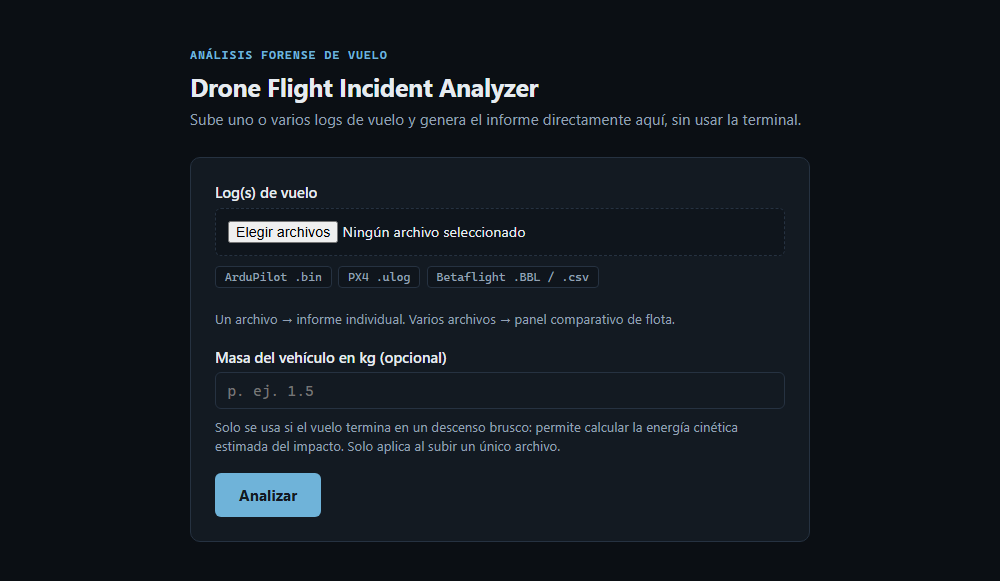
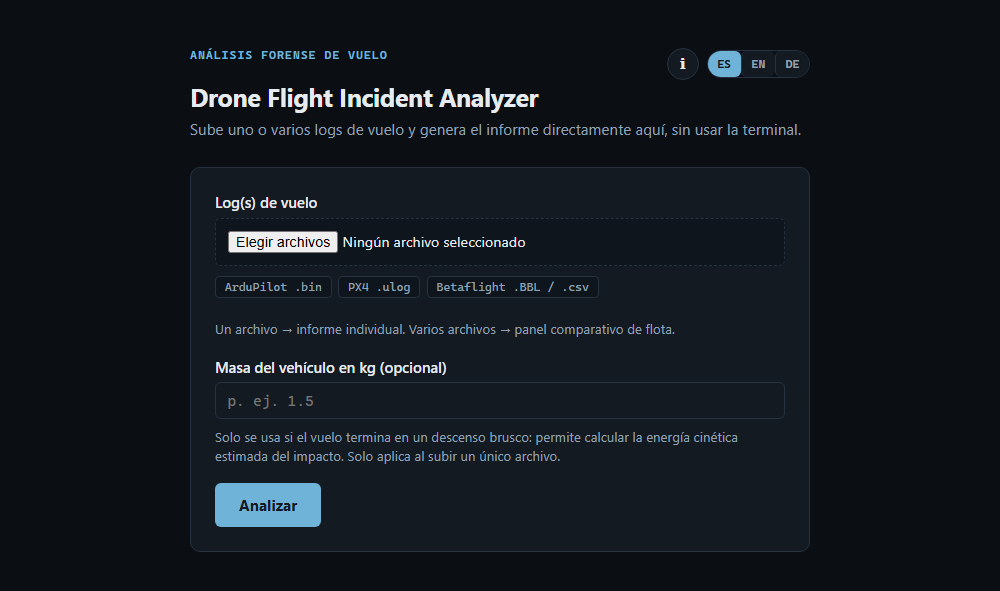
Añade selector de idioma (ES/EN/DE) y ventana de información a la web
- Selector de idioma arriba a la derecha y boton "i" que abre un modal
  explicando que hace la herramienta, en los 3 idiomas.
- Todo del lado del cliente: una unica pagina con las 3 traducciones
  embebidas en JS (objeto `translations`), sin tocar el backend ni
  enrutar idiomas en FastAPI — para una pagina de una sola pantalla es
  mas simple y no requiere recargar. La eleccion se recuerda entre
  visitas via localStorage.
- Modal accesible: cierra con Escape o click fuera, devuelve el foco al
  boton "i" al cerrar, aria-modal + aria-labelledby.
- Probado interactivamente con Playwright (cambio de idioma, apertura del
  modal, cierre, persistencia tras recargar, modo oscuro) antes de
  desinstalarlo — no es una dependencia del proyecto, solo se uso para
  verificar manualmente.
- Nuevo test que confirma que el HTML servido trae el selector, el modal,
  y un fragmento de cada uno de los 3 idiomas.
- Captura de la interfaz web actualizada en el README.

diff --git a/src/web/templates/upload.html b/src/web/templates/upload.html
@@ -21,9 +21,18 @@
   body { margin: 0; padding: 3rem 1.25rem; background: var(--bg); color: var(--ink); font-family: var(--font-sans); display: flex; justify-content: center; }
   main { max-width: 620px; width: 100%; }
 
+  .top-bar { display: flex; align-items: flex-start; justify-content: space-between; gap: 1rem; }
   .eyebrow { font-family: var(--font-mono); font-size: 0.72rem; text-transform: uppercase; letter-spacing: 0.1em; color: var(--accent); font-weight: 700; margin: 0 0 0.5rem 0; }
   h1 { margin: 0 0 0.4rem 0; font-size: 1.55rem; font-weight: 700; letter-spacing: -0.01em; text-wrap: balance; }
   .subtitle { color: var(--muted); margin: 0 0 1.75rem 0; font-size: 0.95rem; }
+
+  .top-controls { display: flex; align-items: center; gap: 0.5rem; flex-shrink: 0; }
+  .icon-btn { background: var(--surface); color: var(--ink); border: 1px solid var(--border); width: 2rem; height: 2rem; border-radius: 999px; padding: 0; font-size: 1rem; font-weight: 700; font-family: var(--font-serif, Georgia, serif); cursor: pointer; display: inline-flex; align-items: center; justify-content: center; line-height: 1; }
+  .icon-btn:hover { border-color: var(--accent); color: var(--accent); }
+  .lang-switch { display: inline-flex; border: 1px solid var(--border); border-radius: 999px; overflow: hidden; }
+  .lang-btn { background: var(--surface); color: var(--muted); border: none; padding: 0.35rem 0.6rem; font-family: var(--font-mono); font-size: 0.72rem; font-weight: 700; cursor: pointer; letter-spacing: 0.02em; }
+  .lang-btn + .lang-btn { border-left: 1px solid var(--border); }
+  .lang-btn[aria-pressed="true"] { background: var(--accent); color: var(--surface); }
 
   section { background: var(--surface); border: 1px solid var(--border); border-radius: 10px; padding: 1.5rem; }
 
@@ -44,40 +53,71 @@
 
   #status { margin-top: 1rem; color: var(--accent); font-size: 0.87rem; display: none; font-family: var(--font-mono); }
 
-  @media (prefers-reduced-motion: no-preference) { button { transition: filter 0.1s ease; } }
+  /* Ventana de informacion */
+  .modal-backdrop { position: fixed; inset: 0; background: rgba(11, 15, 20, 0.6); display: flex; align-items: center; justify-content: center; padding: 1.25rem; z-index: 100; }
+  .modal-backdrop[hidden] { display: none; }
+  .modal { background: var(--surface); border: 1px solid var(--border); border-radius: 10px; max-width: 480px; width: 100%; max-height: 85vh; overflow-y: auto; padding: 1.5rem 1.75rem; position: relative; }
+  .modal h2 { margin: 0 0 1rem 0; font-size: 1.15rem; font-weight: 700; padding-right: 1.5rem; }
+  .modal p { color: var(--ink); font-size: 0.9rem; line-height: 1.55; margin: 0 0 0.9rem 0; }
+  .modal p:last-child { margin-bottom: 0; }
+  .modal code { font-family: var(--font-mono); background: var(--surface-alt); padding: 0.05rem 0.3rem; border-radius: 3px; font-size: 0.85em; }
+  .modal a { color: var(--accent); }
+  .modal-close { position: absolute; top: 1rem; right: 1rem; background: transparent; border: none; color: var(--muted); font-size: 1.3rem; width: 1.75rem; height: 1.75rem; padding: 0; border-radius: 6px; cursor: pointer; line-height: 1; }
+  .modal-close:hover { background: var(--surface-alt); color: var(--ink); }
+
+  @media (prefers-reduced-motion: no-preference) { button, .lang-btn, .icon-btn { transition: filter 0.1s ease, background-color 0.1s ease, color 0.1s ease; } }
 </style>
 </head>
 <body>
 <main>
-  <p class="eyebrow">Análisis forense de vuelo</p>
+  <div class="top-bar">
+    <p class="eyebrow" data-i18n="eyebrow">Análisis forense de vuelo</p>
+    <div class="top-controls">
+      <button type="button" class="icon-btn" id="info-btn" data-i18n-title="info_btn_title" title="Información sobre esta herramienta" aria-haspopup="dialog" aria-controls="info-modal">i</button>
+      <div class="lang-switch" role="group" aria-label="Idioma / Language / Sprache">
+        <button type="button" class="lang-btn" data-lang="es" aria-pressed="true">ES</button>
+        <button type="button" class="lang-btn" data-lang="en" aria-pressed="false">EN</button>
+        <button type="button" class="lang-btn" data-lang="de" aria-pressed="false">DE</button>
+      </div>
+    </div>
+  </div>
+
   <h1>Drone Flight Incident Analyzer</h1>
-  <p class="subtitle">Sube uno o varios logs de vuelo y genera el informe directamente aquí, sin usar la terminal.</p>
+  <p class="subtitle" data-i18n="subtitle">Sube uno o varios logs de vuelo y genera el informe directamente aquí, sin usar la terminal.</p>
 
   <section>
     <form id="analyze-form" action="/analyze" method="post" enctype="multipart/form-data">
-      <label for="files">Log(s) de vuelo</label>
+      <label for="files" data-i18n="files_label">Log(s) de vuelo</label>
       <input type="file" id="files" name="files" multiple required>
       <div class="formats">
         <span>ArduPilot .bin</span>
         <span>PX4 .ulog</span>
         <span>Betaflight .BBL / .csv</span>
       </div>
-      <p class="hint">
+      <p class="hint" data-i18n="hint1">
         Un archivo → informe individual. Varios archivos → panel comparativo de flota.
       </p>
 
-      <label for="mass_kg">Masa del vehículo en kg (opcional)</label>
-      <input type="number" id="mass_kg" name="mass_kg" step="0.1" min="0" placeholder="p. ej. 1.5">
-      <p class="hint">
+      <label for="mass_kg" data-i18n="mass_label">Masa del vehículo en kg (opcional)</label>
+      <input type="number" id="mass_kg" name="mass_kg" step="0.1" min="0" placeholder="p. ej. 1.5" data-i18n-placeholder="mass_placeholder">
+      <p class="hint" data-i18n="hint2">
         Solo se usa si el vuelo termina en un descenso brusco: permite calcular la energía cinética estimada del
         impacto. Solo aplica al subir un único archivo.
       </p>
 
-      <button type="submit" id="submit-btn">Analizar</button>
-      <p id="status">Analizando… puede tardar unos segundos (el modelo de detección de anomalías se entrena en el momento).</p>
+      <button type="submit" id="submit-btn" data-i18n="analyze_btn">Analizar</button>
+      <p id="status" data-i18n="status_msg">Analizando… puede tardar unos segundos (el modelo de detección de anomalías se entrena en el momento).</p>
     </form>
   </section>
 </main>
+
+<div class="modal-backdrop" id="info-modal-backdrop" hidden>
+  <div class="modal" id="info-modal" role="dialog" aria-modal="true" aria-labelledby="info-modal-title">
+    <button type="button" class="modal-close" id="info-close" data-i18n-title="info_close_label" title="Cerrar" aria-label="Cerrar">&times;</button>
+    <h2 id="info-modal-title" data-i18n="info_title">¿Qué es esto?</h2>
+    <div id="info-body" data-i18n-html="info_body"></div>
+  </div>
+</div>
 
 <script>
   // Mejora minima de UX: como el analisis puede tardar unos segundos
@@ -86,6 +126,136 @@
   document.getElementById('analyze-form').addEventListener('submit', function () {
     document.getElementById('submit-btn').disabled = true;
     document.getElementById('status').style.display = 'block';
+  });
+
+  // --- Traducciones -------------------------------------------------
+  // Todo el texto visible de la pagina vive aqui, en un solo objeto, en
+  // vez de servir 3 plantillas HTML distintas desde el backend: para una
+  // pagina de una sola pantalla como esta, cambiar el idioma en el
+  // cliente (sin recargar) es mas simple que añadir enrutado/estado de
+  // idioma en FastAPI, y no requiere tocar el resto del pipeline.
+  var GITHUB_URL = "https://github.com/alberto-navas/drone-flight-incident-analyzer";
+
+  var translations = {
+    es: {
+      eyebrow: "Análisis forense de vuelo",
+      subtitle: "Sube uno o varios logs de vuelo y genera el informe directamente aquí, sin usar la terminal.",
+      files_label: "Log(s) de vuelo",
+      hint1: "Un archivo → informe individual. Varios archivos → panel comparativo de flota.",
+      mass_label: "Masa del vehículo en kg (opcional)",
+      mass_placeholder: "p. ej. 1.5",
+      hint2: "Solo se usa si el vuelo termina en un descenso brusco: permite calcular la energía cinética estimada del impacto. Solo aplica al subir un único archivo.",
+      analyze_btn: "Analizar",
+      status_msg: "Analizando… puede tardar unos segundos (el modelo de detección de anomalías se entrena en el momento).",
+      info_btn_title: "Información sobre esta herramienta",
+      info_close_label: "Cerrar",
+      info_title: "¿Qué es esto?",
+      info_body:
+        "<p><strong>Drone Flight Incident Analyzer</strong> analiza automáticamente los datos que un dron graba durante el vuelo (su «caja negra») y genera un informe: la ruta que siguió, si hubo algún fallo (batería, señal, GPS) y, si el vuelo terminó en una caída, dónde y a qué velocidad probablemente impactó.</p>" +
+        "<p>Combina reglas explicables con un modelo de aprendizaje automático que aprende qué es normal para cada vuelo en concreto, y verifica si el propio archivo muestra indicios de haber sido manipulado.</p>" +
+        "<p><strong>Cómo usarlo:</strong> sube el archivo de log del dron (ArduPilot <code>.bin</code>, PX4 <code>.ulog</code> o Betaflight <code>.BBL</code>/<code>.csv</code>). Un archivo genera un informe individual; varios archivos, un panel comparativo de flota.</p>" +
+        "<p>Proyecto de código abierto — <a href=\"" + GITHUB_URL + "\" target=\"_blank\" rel=\"noopener\">ver en GitHub</a>.</p>",
+    },
+    en: {
+      eyebrow: "Flight forensic analysis",
+      subtitle: "Upload one or more flight logs and generate the report directly here — no terminal needed.",
+      files_label: "Flight log(s)",
+      hint1: "One file → individual report. Several files → fleet comparison dashboard.",
+      mass_label: "Vehicle mass in kg (optional)",
+      mass_placeholder: "e.g. 1.5",
+      hint2: "Only used if the flight ends in a sharp descent: it lets us estimate the kinetic energy of the impact. Only applies when uploading a single file.",
+      analyze_btn: "Analyze",
+      status_msg: "Analyzing… this can take a few seconds (the anomaly-detection model is trained on the spot).",
+      info_btn_title: "About this tool",
+      info_close_label: "Close",
+      info_title: "What is this?",
+      info_body:
+        "<p><strong>Drone Flight Incident Analyzer</strong> automatically analyzes the data a drone records during flight (its “black box”) and produces a report: the route it flew, whether anything went wrong (battery, signal, GPS), and — if the flight ended in a crash — where and at what speed it likely hit the ground.</p>" +
+        "<p>It combines explainable rules with a machine-learning model that learns what's normal for each individual flight, and checks whether the log file itself shows signs of tampering.</p>" +
+        "<p><strong>How to use it:</strong> upload the drone's log file (ArduPilot <code>.bin</code>, PX4 <code>.ulog</code>, or Betaflight <code>.BBL</code>/<code>.csv</code>). One file produces an individual report; several files produce a fleet comparison dashboard.</p>" +
+        "<p>Open-source project — <a href=\"" + GITHUB_URL + "\" target=\"_blank\" rel=\"noopener\">view on GitHub</a>.</p>",
+    },
+    de: {
+      eyebrow: "Forensische Flugdatenanalyse",
+      subtitle: "Lade eine oder mehrere Flug-Logs hoch und erstelle den Bericht direkt hier — ganz ohne Terminal.",
+      files_label: "Flug-Log(s)",
+      hint1: "Eine Datei → Einzelbericht. Mehrere Dateien → Flottenvergleich.",
+      mass_label: "Fahrzeugmasse in kg (optional)",
+      mass_placeholder: "z. B. 1.5",
+      hint2: "Wird nur verwendet, wenn der Flug in einem starken Sinkflug endet: damit lässt sich die geschätzte kinetische Energie des Aufpralls berechnen. Gilt nur beim Hochladen einer einzelnen Datei.",
+      analyze_btn: "Analysieren",
+      status_msg: "Analysiere… das kann einige Sekunden dauern (das Modell zur Anomalieerkennung wird gerade trainiert).",
+      info_btn_title: "Über dieses Tool",
+      info_close_label: "Schließen",
+      info_title: "Was ist das?",
+      info_body:
+        "<p><strong>Drone Flight Incident Analyzer</strong> analysiert automatisch die Daten, die eine Drohne während des Fluges aufzeichnet (ihre „Black Box“), und erstellt einen Bericht: die geflogene Route, ob etwas schiefgelaufen ist (Akku, Signal, GPS) und — falls der Flug in einem Absturz endete — wo und mit welcher Geschwindigkeit sie wahrscheinlich aufgeschlagen ist.</p>" +
+        "<p>Es kombiniert nachvollziehbare Regeln mit einem maschinellen Lernmodell, das lernt, was für jeden einzelnen Flug normal ist, und prüft, ob die Logdatei selbst Anzeichen einer Manipulation zeigt.</p>" +
+        "<p><strong>Verwendung:</strong> Lade die Logdatei der Drohne hoch (ArduPilot <code>.bin</code>, PX4 <code>.ulog</code> oder Betaflight <code>.BBL</code>/<code>.csv</code>). Eine Datei erzeugt einen Einzelbericht, mehrere Dateien einen Flottenvergleich.</p>" +
+        "<p>Open-Source-Projekt — <a href=\"" + GITHUB_URL + "\" target=\"_blank\" rel=\"noopener\">auf GitHub ansehen</a>.</p>",
+    }
+  };
+
+  function applyLanguage(lang) {
+    var dict = translations[lang] || translations.es;
+    document.documentElement.lang = lang;
+
+    document.querySelectorAll('[data-i18n]').forEach(function (el) {
+      var key = el.getAttribute('data-i18n');
+      if (dict[key] !== undefined) el.textContent = dict[key];
+    });
+    document.querySelectorAll('[data-i18n-html]').forEach(function (el) {
+      var key = el.getAttribute('data-i18n-html');
+      if (dict[key] !== undefined) el.innerHTML = dict[key];
+    });
+    document.querySelectorAll('[data-i18n-placeholder]').forEach(function (el) {
+      var key = el.getAttribute('data-i18n-placeholder');
+      if (dict[key] !== undefined) el.setAttribute('placeholder', dict[key]);
+    });
+    document.querySelectorAll('[data-i18n-title]').forEach(function (el) {
+      var key = el.getAttribute('data-i18n-title');
+      if (dict[key] !== undefined) {
+        el.setAttribute('title', dict[key]);
+        el.setAttribute('aria-label', dict[key]);
+      }
+    });
+
+    document.querySelectorAll('.lang-btn').forEach(function (btn) {
+      btn.setAttribute('aria-pressed', btn.getAttribute('data-lang') === lang ? 'true' : 'false');
+    });
+
+    try { localStorage.setItem('drone-analyzer-lang', lang); } catch (e) { /* almacenamiento no disponible: no es critico, simplemente no se recuerda la eleccion */ }
+  }
+
+  document.querySelectorAll('.lang-btn').forEach(function (btn) {
+    btn.addEventListener('click', function () { applyLanguage(btn.getAttribute('data-lang')); });
+  });
+
+  var savedLang = 'es';
+  try { savedLang = localStorage.getItem('drone-analyzer-lang') || 'es'; } catch (e) { /* ver comentario arriba */ }
+  applyLanguage(savedLang);
+
+  // --- Ventana de informacion ----------------------------------------
+  var infoBtn = document.getElementById('info-btn');
+  var infoBackdrop = document.getElementById('info-modal-backdrop');
+  var infoClose = document.getElementById('info-close');
+
+  function openInfo() {
+    infoBackdrop.hidden = false;
+    infoClose.focus();
+  }
+  function closeInfo() {
+    infoBackdrop.hidden = true;
+    infoBtn.focus();
+  }
+
+  infoBtn.addEventListener('click', openInfo);
+  infoClose.addEventListener('click', closeInfo);
+  infoBackdrop.addEventListener('click', function (event) {
+    if (event.target === infoBackdrop) closeInfo(); // click fuera del cuadro, sobre el fondo
+  });
+  document.addEventListener('keydown', function (event) {
+    if (event.key === 'Escape' && !infoBackdrop.hidden) closeInfo();
   });
 </script>
 </body>

diff --git a/tests/test_web.py b/tests/test_web.py
@@ -130,3 +130,29 @@ def test_main_module_is_importable():
     `if __name__ == "__main__":` no se ejecuta al importarlo asi.
     """
     import src.web.__main__  # noqa: F401
+
+
+def test_upload_form_has_language_switcher_and_info_modal():
+    """
+    El cambio de idioma y la ventana de info son 100% del lado del cliente
+    (un solo HTML con las 3 traducciones embebidas, ver comentario en
+    upload.html sobre por que). Sin ejecutar JS no se puede probar la
+    interaccion en si (eso se verifico a mano con Playwright durante el
+    desarrollo), pero si se puede comprobar que las piezas necesarias
+    llegan en el HTML servido: los 3 botones de idioma, el modal, y un
+    fragmento reconocible de cada uno de los 3 idiomas.
+    """
+    response = client.get("/")
+    html = response.text
+
+    for lang in ("es", "en", "de"):
+        assert f'data-lang="{lang}"' in html
+
+    assert 'id="info-modal-backdrop"' in html
+    assert 'id="info-btn"' in html
+
+    # Un fragmento de cada idioma, para confirmar que las 3 traducciones
+    # completas viajan en la pagina (no solo los botones del selector).
+    assert "Análisis forense de vuelo" in html  # es
+    assert "Flight forensic analysis" in html  # en
+    assert "Forensische Flugdatenanalyse" in html  # de

diff --git a/README.md b/README.md
@@ -172,6 +172,13 @@ de ML por petición) está limitado a 20 peticiones/minuto por IP (`slowapi`),
 para que el plan gratuito de Render no se quede sin recursos si alguien lo
 satura. Pasado el límite, responde `429` en vez de degradarse o caerse.
 
+**Idioma**: selector ES/EN/DE arriba a la derecha, y un botón "i" con una
+ventana explicando qué hace la herramienta, también en los 3 idiomas. Es
+una única página con las 3 traducciones embebidas en JavaScript (sin
+recargar ni tocar el backend) — para una página de una sola pantalla es
+más simple que enrutar idiomas en FastAPI, y la elección se recuerda entre
+visitas (`localStorage`).
+
 **Desplegado en [Render](https://render.com)** (plan gratuito) vía `render.yaml`:
 **https://drone-flight-incident-analyzer.onrender.com**. Sin estado
 persistente que gestionar (cada análisis se procesa en un directorio
@@ -186,7 +193,7 @@ detecta `render.yaml` solo.
 pytest -v
 ```
 
-69 tests que cubren los siete módulos de `src/analysis/`, los cuatro
+70 tests que cubren los siete módulos de `src/analysis/`, los cuatro
 parsers, el CLI, la interfaz web y casos de entrada malformada de extremo a
 extremo, usando fixtures pequeños versionados en `tests/fixtures/` (un
 recorte real de ArduPilot de 64 KB, un log real de PX4 de ~900 KB, CSVs/SRT
